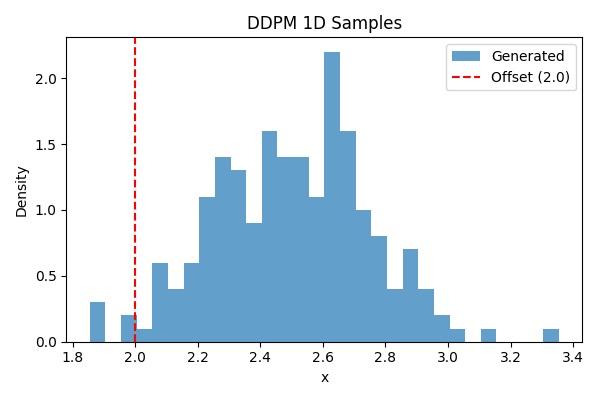
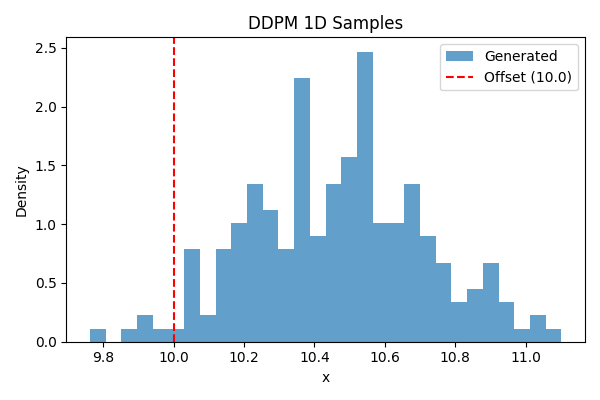
first commit

diff --git a/sample_and_plot.py b/sample_and_plot.py
@@ -56,7 +56,8 @@ def main(model_path: str = "ddpm_1d.pt", num_samples: int = 200):
     # Plot histogram of generated samples
     plt.figure(figsize=(6, 4))
     plt.hist(samples, bins=30, density=True, alpha=0.7, label="Generated")
-    plt.axvline(2.0, color="red", linestyle="--", label="Offset (2.0)")
+    # Dataset is 10 + U(0, 1), so center around 10.5 roughly
+    plt.axvline(10.0, color="red", linestyle="--", label="Offset (10.0)")
     plt.title("DDPM 1D Samples")
     plt.xlabel("x")
     plt.ylabel("Density")

diff --git a/train_ddpm_1d.py b/train_ddpm_1d.py
@@ -160,8 +160,8 @@ def train():
     device = torch.device(cfg.device)
     print(f"Using device: {device}")
 
-    # Dataset
-    data = make_toy_dataset(100, offset=2.0)
+    # Dataset: x = 10 + U(0, 1)
+    data = make_toy_dataset(100, offset=10.0)
     dataset = TensorDataset(data)
     loader = DataLoader(dataset, batch_size=cfg.batch_size, shuffle=True, drop_last=True)
 
